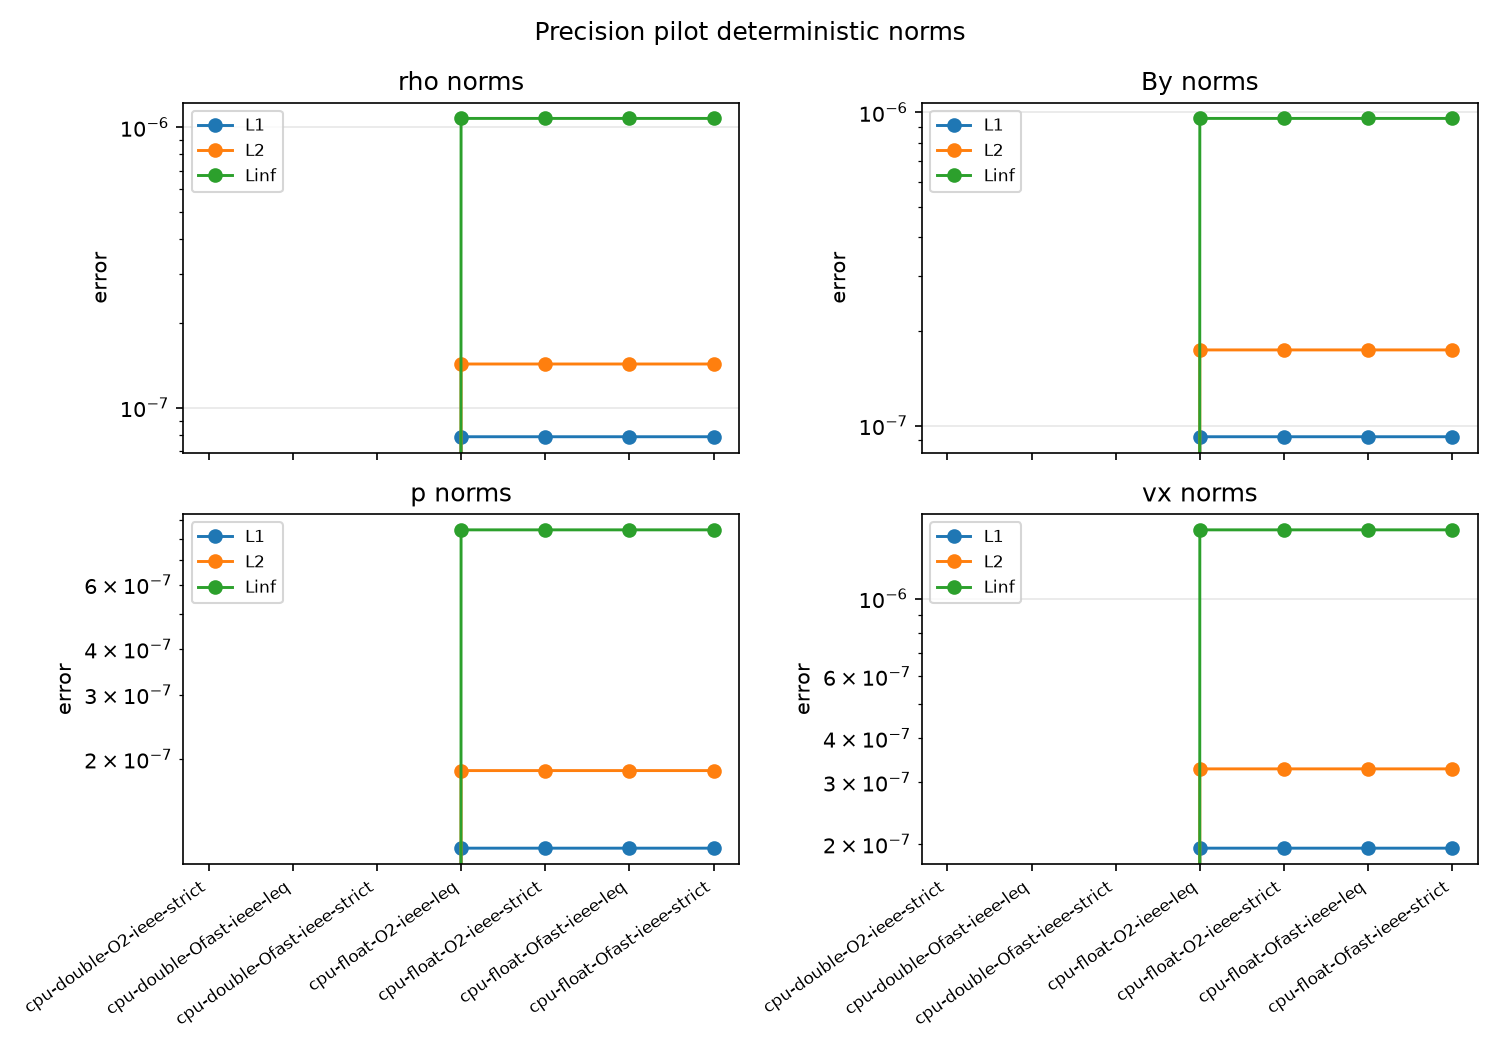
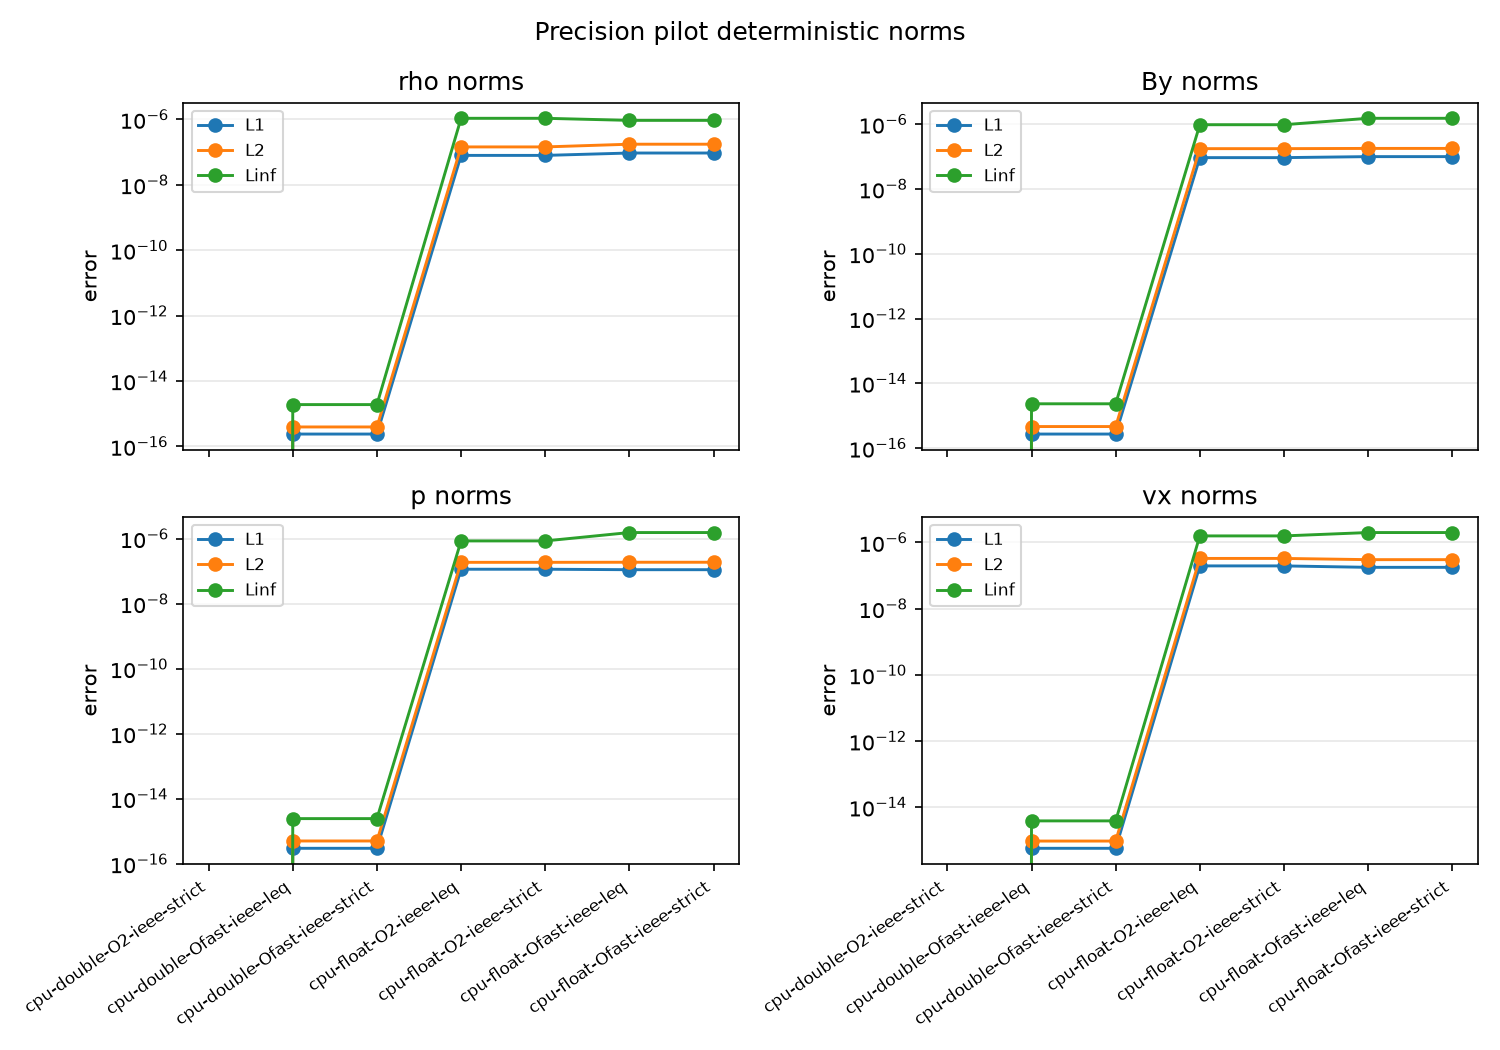
test(mhd): refresh P0 evidence after MSVC flag mapping

diff --git a/experiments/week14/mhd_precision_pilot/summary.md b/experiments/week14/mhd_precision_pilot/summary.md
@@ -4,7 +4,7 @@
 - Case: brio_wu_1d
 - Solver: hll
 - Reference: cpu-double-O2-ieee-leq
-- Git commit: 8eee31318fa512c2a69d012726eb7699d7c8b0c2
+- Git commit: 734629799b9e2469e71780a4b8a5caff76e7ee8c
 
 ## G0
 
@@ -14,14 +14,14 @@
 
 | variant | precision | opt | fastmath | riemann | finite | rc | steps | divB_max | walltime_s | is_reference | L1_rho | L2_rho | Linf_rho | L1_By | L2_By | Linf_By | L1_p | L2_p | Linf_p | L1_vx | L2_vx | Linf_vx |
 | --- | --- | --- | --- | --- | --- | --- | --- | --- | --- | --- | --- | --- | --- | --- | --- | --- | --- | --- | --- | --- | --- | --- |
-| cpu-double-O2-ieee-leq | double | O2 | False | leq | True | 0 | 759 | 4.441e-14 | 0.1899307999992743 | True | 0.0 | 0.0 | 0.0 | 0.0 | 0.0 | 0.0 | 0.0 | 0.0 | 0.0 | 0.0 | 0.0 | 0.0 |
-| cpu-double-O2-ieee-strict | double | O2 | False | strict | True | 0 | 759 | 4.441e-14 | 0.16580690001137555 | False | 0.0 | 0.0 | 0.0 | 0.0 | 0.0 | 0.0 | 0.0 | 0.0 | 0.0 | 0.0 | 0.0 | 0.0 |
-| cpu-double-Ofast-ieee-leq | double | Ofast | False | leq | True | 0 | 759 | 4.441e-14 | 0.1693470999598503 | False | 0.0 | 0.0 | 0.0 | 0.0 | 0.0 | 0.0 | 0.0 | 0.0 | 0.0 | 0.0 | 0.0 | 0.0 |
-| cpu-double-Ofast-ieee-strict | double | Ofast | False | strict | True | 0 | 759 | 4.441e-14 | 0.18615139997564256 | False | 0.0 | 0.0 | 0.0 | 0.0 | 0.0 | 0.0 | 0.0 | 0.0 | 0.0 | 0.0 | 0.0 | 0.0 |
-| cpu-float-O2-ieee-leq | float | O2 | False | leq | True | 0 | 759 | 0.0 | 0.148184800054878 | False | 7.882574032899722e-08 | 1.432129132030242e-07 | 1.075167475605987e-06 | 9.221763949358817e-08 | 1.745171052894174e-07 | 9.56222249715033e-07 | 1.1417617451681677e-07 | 1.8612459959573686e-07 | 8.4764803021109e-07 | 1.947204960684316e-07 | 3.2743802518208345e-07 | 1.5686030066033863e-06 |
-| cpu-float-O2-ieee-strict | float | O2 | False | strict | True | 0 | 759 | 0.0 | 0.1419288000324741 | False | 7.882574032899722e-08 | 1.432129132030242e-07 | 1.075167475605987e-06 | 9.221763949358817e-08 | 1.745171052894174e-07 | 9.56222249715033e-07 | 1.1417617451681677e-07 | 1.8612459959573686e-07 | 8.4764803021109e-07 | 1.947204960684316e-07 | 3.2743802518208345e-07 | 1.5686030066033863e-06 |
-| cpu-float-Ofast-ieee-leq | float | Ofast | False | leq | True | 0 | 759 | 0.0 | 0.13939570006914437 | False | 7.882574032899722e-08 | 1.432129132030242e-07 | 1.075167475605987e-06 | 9.221763949358817e-08 | 1.745171052894174e-07 | 9.56222249715033e-07 | 1.1417617451681677e-07 | 1.8612459959573686e-07 | 8.4764803021109e-07 | 1.947204960684316e-07 | 3.2743802518208345e-07 | 1.5686030066033863e-06 |
-| cpu-float-Ofast-ieee-strict | float | Ofast | False | strict | True | 0 | 759 | 0.0 | 0.14348929992411286 | False | 7.882574032899722e-08 | 1.432129132030242e-07 | 1.075167475605987e-06 | 9.221763949358817e-08 | 1.745171052894174e-07 | 9.56222249715033e-07 | 1.1417617451681677e-07 | 1.8612459959573686e-07 | 8.4764803021109e-07 | 1.947204960684316e-07 | 3.2743802518208345e-07 | 1.5686030066033863e-06 |
+| cpu-double-O2-ieee-leq | double | O2 | False | leq | True | 0 | 759 | 4.441e-14 | 0.18336329993326217 | True | 0.0 | 0.0 | 0.0 | 0.0 | 0.0 | 0.0 | 0.0 | 0.0 | 0.0 | 0.0 | 0.0 | 0.0 |
+| cpu-double-O2-ieee-strict | double | O2 | False | strict | True | 0 | 759 | 4.441e-14 | 0.1811578000197187 | False | 0.0 | 0.0 | 0.0 | 0.0 | 0.0 | 0.0 | 0.0 | 0.0 | 0.0 | 0.0 | 0.0 | 0.0 |
+| cpu-double-Ofast-ieee-leq | double | Ofast | False | leq | True | 0 | 759 | 0.0 | 0.18268530000932515 | False | 2.3708465746175025e-16 | 3.908165291135101e-16 | 1.887379141862766e-15 | 2.714104982426413e-16 | 4.627319025766094e-16 | 2.3314683517128287e-15 | 2.982336599899327e-16 | 5.009862177271393e-16 | 2.4424906541753444e-15 | 5.728074416794512e-16 | 9.483426881781895e-16 | 3.858025010572419e-15 |
+| cpu-double-Ofast-ieee-strict | double | Ofast | False | strict | True | 0 | 759 | 0.0 | 0.1673935999860987 | False | 2.3708465746175025e-16 | 3.908165291135101e-16 | 1.887379141862766e-15 | 2.714104982426413e-16 | 4.627319025766094e-16 | 2.3314683517128287e-15 | 2.982336599899327e-16 | 5.009862177271393e-16 | 2.4424906541753444e-15 | 5.728074416794512e-16 | 9.483426881781895e-16 | 3.858025010572419e-15 |
+| cpu-float-O2-ieee-leq | float | O2 | False | leq | True | 0 | 759 | 0.0 | 0.1385556000750512 | False | 7.882574032899722e-08 | 1.432129132030242e-07 | 1.075167475605987e-06 | 9.221763949358817e-08 | 1.745171052894174e-07 | 9.56222249715033e-07 | 1.1417617451681677e-07 | 1.8612459959573686e-07 | 8.4764803021109e-07 | 1.947204960684316e-07 | 3.2743802518208345e-07 | 1.5686030066033863e-06 |
+| cpu-float-O2-ieee-strict | float | O2 | False | strict | True | 0 | 759 | 0.0 | 0.13633070001378655 | False | 7.882574032899722e-08 | 1.432129132030242e-07 | 1.075167475605987e-06 | 9.221763949358817e-08 | 1.745171052894174e-07 | 9.56222249715033e-07 | 1.1417617451681677e-07 | 1.8612459959573686e-07 | 8.4764803021109e-07 | 1.947204960684316e-07 | 3.2743802518208345e-07 | 1.5686030066033863e-06 |
+| cpu-float-Ofast-ieee-leq | float | Ofast | False | leq | True | 0 | 759 | 0.0 | 0.1372351999161765 | False | 9.321573716049016e-08 | 1.7337094612448776e-07 | 9.29133896931944e-07 | 9.908299169114333e-08 | 1.7749541009053786e-07 | 1.5097946416409158e-06 | 1.1045826874132166e-07 | 1.8724045416042503e-07 | 1.5346323517517746e-06 | 1.7620903126125794e-07 | 3.00867610133495e-07 | 1.9830211069882253e-06 |
+| cpu-float-Ofast-ieee-strict | float | Ofast | False | strict | True | 0 | 759 | 0.0 | 0.146999099990353 | False | 9.321573716049016e-08 | 1.7337094612448776e-07 | 9.29133896931944e-07 | 9.908299169114333e-08 | 1.7749541009053786e-07 | 1.5097946416409158e-06 | 1.1045826874132166e-07 | 1.8724045416042503e-07 | 1.5346323517517746e-06 | 1.7620903126125794e-07 | 3.00867610133495e-07 | 1.9830211069882253e-06 |
 
 ## MCA
 
